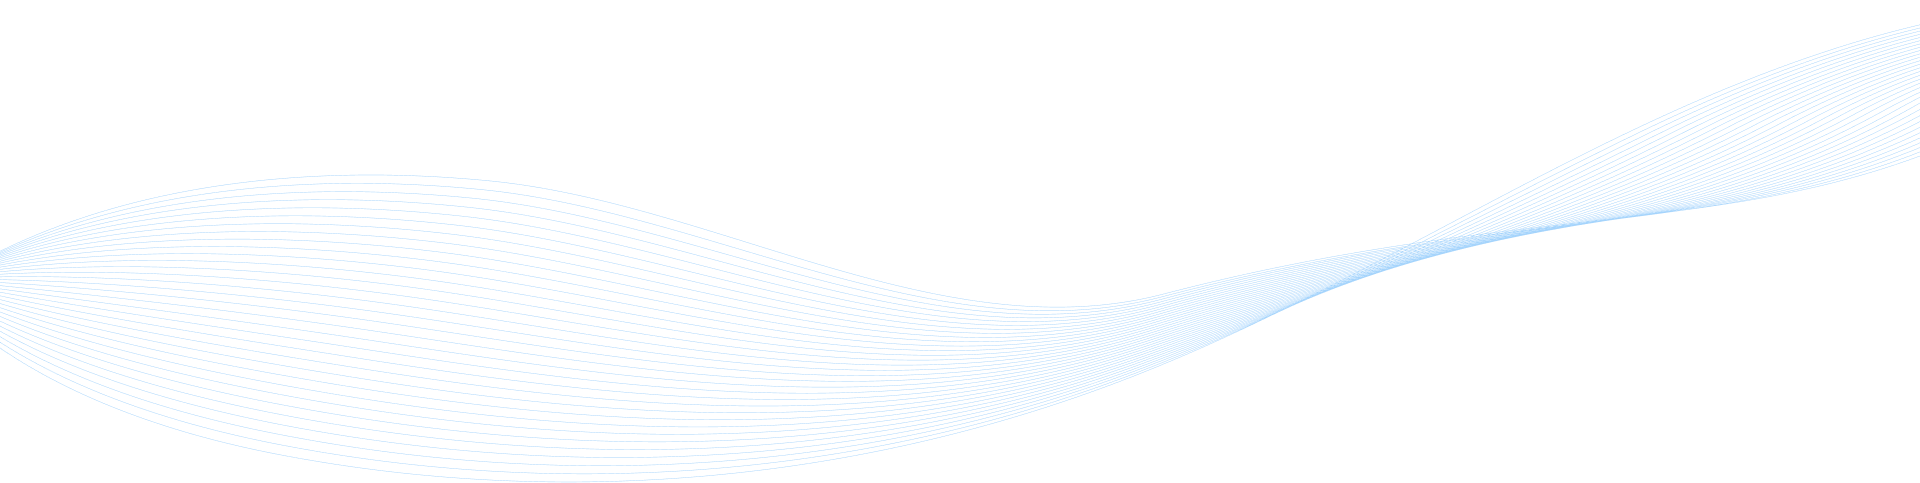
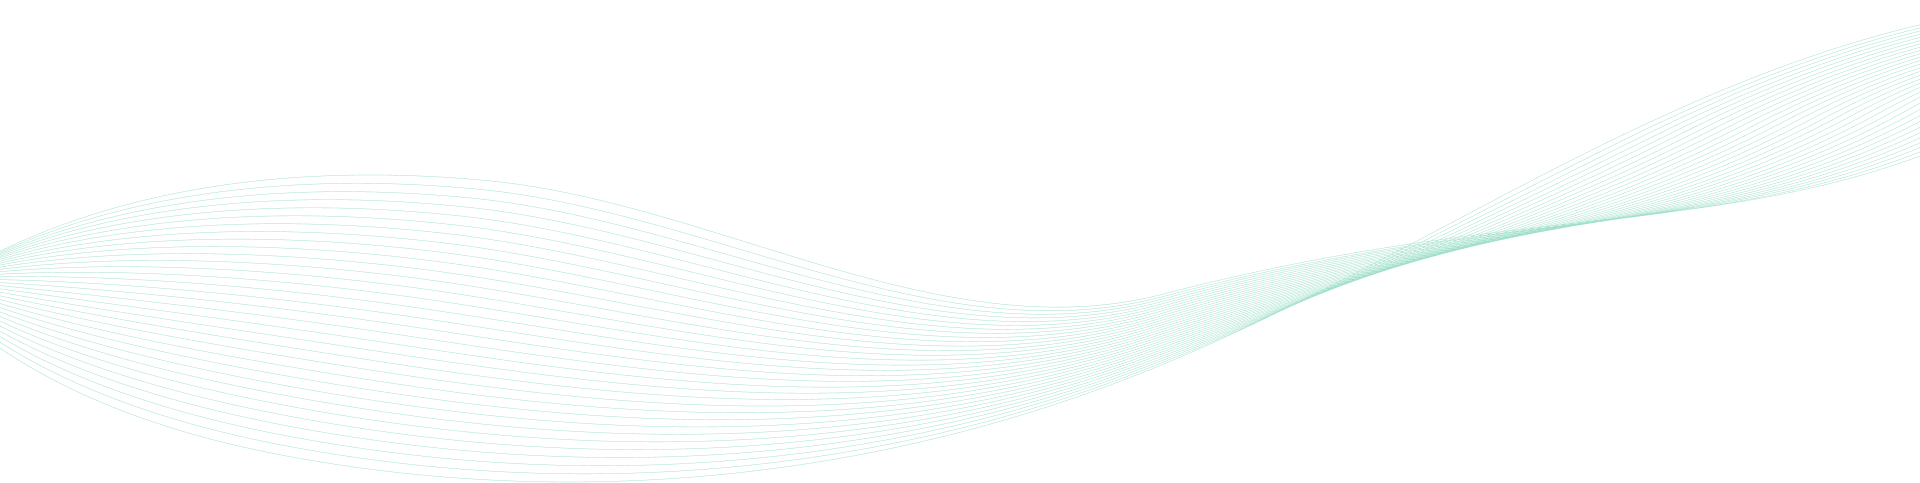
remove extra assets

diff --git a/src/app/layout/footer/footer.component.scss b/src/app/layout/footer/footer.component.scss
@@ -15,7 +15,7 @@
         z-index: 1;
         width: 100%;
         height: 480px;
-        background: url('/assets/images/asd2.png');
+        background: url('/assets/images/asd.png');
     }
 
     .content {
